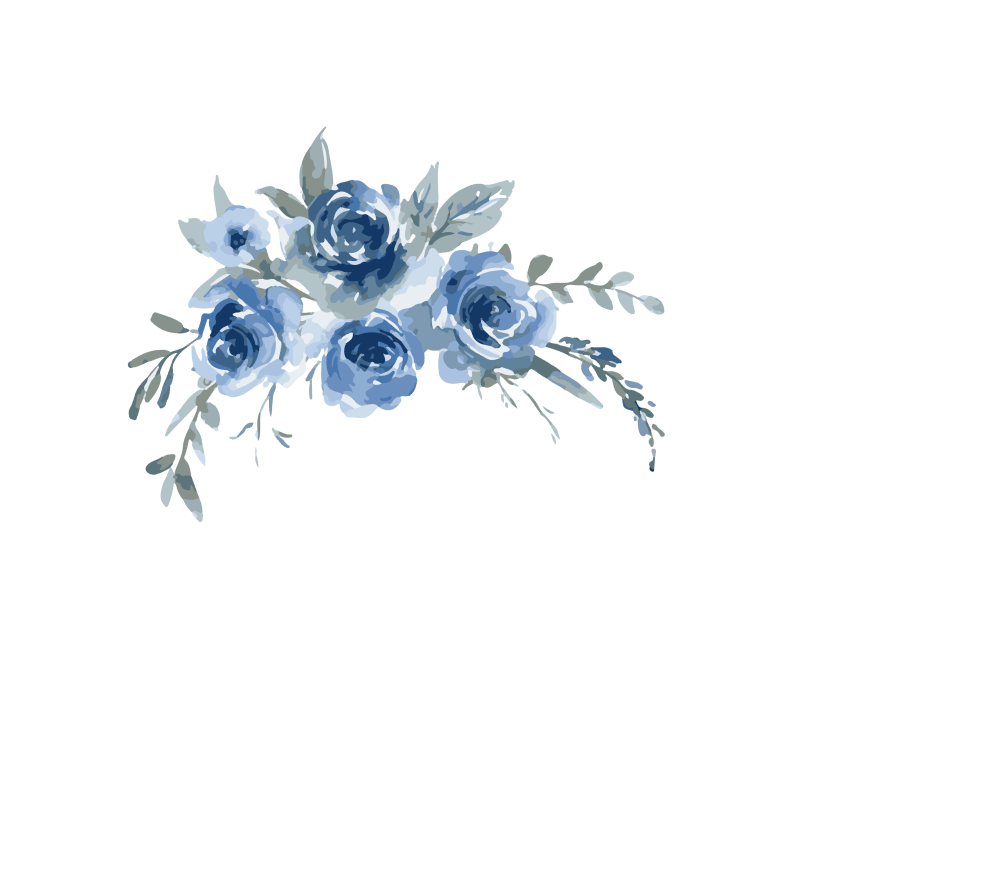
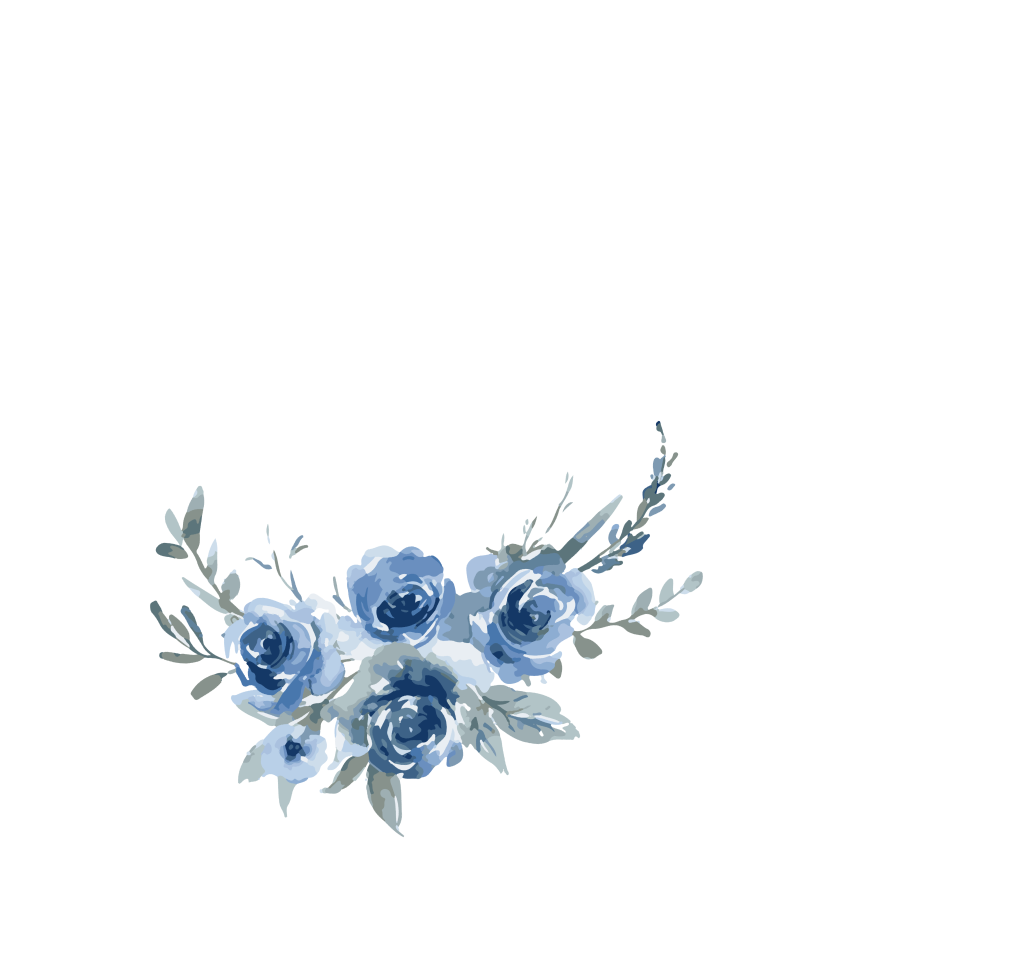
fixes in max-460 size with modal7

Changed region(s): [[0.1247, 0.152, 0.6861, 0.8514]]

diff --git a/style.css b/style.css
@@ -531,12 +531,13 @@ padding: 5px 10px;
         justify-content: center;
         align-items: center;
         background-position-y: 0%;
-        background-size: 90%;
+        background-size: 55%, 90%;
         background-color: #F8F8F6;
         background-image: none;
         background-image: url('./img/png-03.png'), url('./img/png-04.png');
-        background-position-x: -230px, 250px;
-        background-position-y: -70px, 450px;
+        background-position-x: -74px, 253px;
+        background-position-y: -14px, 386px;
+        
     
     }
     .asistance-title{
